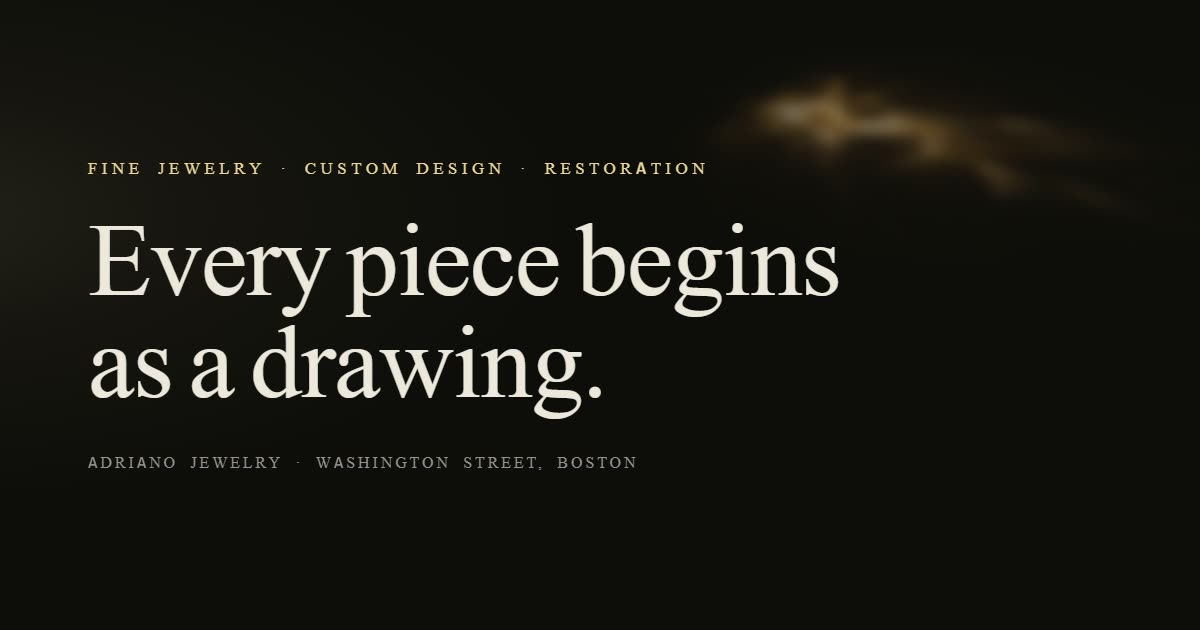
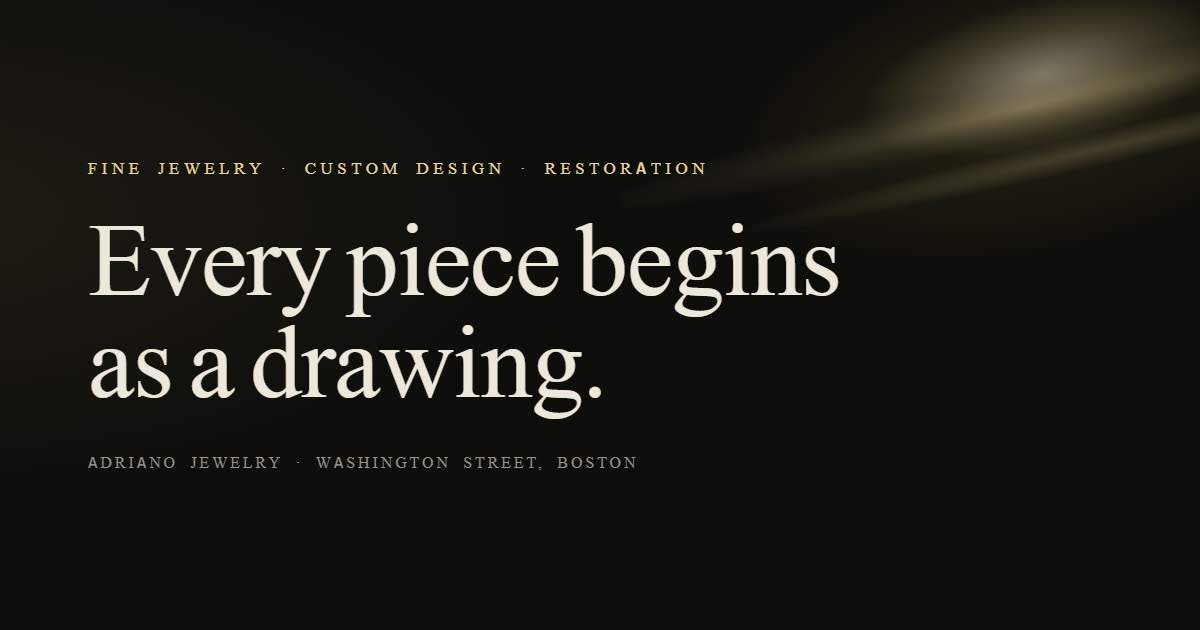
Draw the hero light instead of shipping it, and stop the process skipping stages (v0.1.0)
THE BACKGROUND IS NOW DRAWN, NOT PHOTOGRAPHED. The hero carried a raster of
gold caustics; it is four gradients. Better on every axis that matters here —
no request, no bytes, cannot band on an OLED the way a compressed dark image
does, scales to any viewport without resampling, and it is unambiguously a
lighting effect rather than a photograph of something that was never in the
room. On a page whose whole argument is that nothing is borrowed, the
background should not be the exception. The four layers are one light built
the way light falls: a small hot core, a long shallow rake, a thinner second
streak so the rake has structure, and a broad dim halo for what the room
bounces back. Every layer ends at transparent, so the element has no edge and
needs neither the mask nor the blur the image required.

THE PROCESS SECTION WAS SKIPPING STAGES. Each stage had its own ScrollTrigger
with onToggle, which is wrong in two ways that only show up when measured. The
stages do not touch — six to eleven rem of gap between them — so any scroll
position landing in a gap left NO stage active and the drawing showed whatever
was last lit rather than what was being read. And onToggle only fires if a
sampled frame lands inside a stage's range, so a fast flick or an anchor jump
can cross a 160px stage between two frames and never activate it at all.
Measured on the built page: stepping 400px at a time skipped 03 outright and
[…]

Changed region(s): [[0.6167, 0.0, 1.0, 0.3317]]

diff --git a/assets/css/home.css b/assets/css/home.css
@@ -307,46 +307,62 @@
 /* The lamp again, but local and much stronger — a pool thrown across the top
    right of the hero only. Decorative, so it is aria-hidden in the markup and
    pointer-events:none here. */
+/* DRAWN, NOT PHOTOGRAPHED. This was a raster of gold caustics and it is now
+   four gradients, which is better on every axis that matters here: it costs no
+   request and no bytes, it cannot band on an OLED the way a compressed dark
+   image does, it scales to any viewport without resampling, and — the point —
+   it is unambiguously a lighting effect rather than a photograph of something.
+   On a page whose whole argument is that nothing here is borrowed, the
+   background should not be an image of a thing that was never in the room.
+
+   The four layers are one light, built the way a light actually falls:
+     1. the core, small and hot, where the beam is most concentrated;
+     2. a long shallow streak — 74% wide by 8% tall is what makes it read as
+        raking across a surface rather than glowing in mid-air;
+     3. a second, thinner streak offset below it, so the rake has structure
+        instead of being one smooth blob;
+     4. a broad dim halo in --gold-deep, the light the room bounces back.
+   Rotating the whole element is what sets the rake angle; doing it here rather
+   than baking the angle into each gradient keeps all four consistent.
+
+   Every layer ends at transparent, so the element has no edge to hide and needs
+   neither a mask nor a blur. screen blending keeps it additive, which is what
+   light does. */
 .hero__light {
   position: absolute;
-  top: -18%;
-  right: -22%;
-  width: min(82vw, 60rem);
-  aspect-ratio: 16 / 9;
-  background-size: cover;
-  background-position: center;
-  /* Low enough to read as light in the room rather than as a photograph of
-     light. Blurring kills the last of the image's own structure so nothing in
-     it can be mistaken for an object. */
-  opacity: 0.55;
-  filter: blur(8px);
+  top: -16%;
+  right: -20%;
+  width: min(88vw, 64rem);
+  aspect-ratio: 16 / 10;
+  transform: rotate(-13deg);
+  transform-origin: 60% 50%;
+  opacity: 0.85;
+  mix-blend-mode: screen;
   pointer-events: none;
   z-index: 0;
-
-  /* screen is what makes this a light source instead of a picture of one.
-     The asset is bright streaks on a black field; under normal compositing the
-     black is opaque and the element paints as a visible rectangle sitting on
-     the page — which is exactly how it looked before this line. Under `screen`
-     black is the identity, so the black field disappears entirely and only the
-     streaks survive to lighten what is under them. That is also physically the
-     right model: light adds. */
-  mix-blend-mode: screen;
-
-  /* Even with screen, the blur leaves a faint edge where the element ends.
-     The mask feathers the element's own bounds to nothing so the light has no
-     border at all. */
-  -webkit-mask-image: radial-gradient(
-    closest-side,
-    #000 35%,
-    rgba(0, 0, 0, 0.55) 62%,
-    transparent 100%
-  );
-  mask-image: radial-gradient(
-    closest-side,
-    #000 35%,
-    rgba(0, 0, 0, 0.55) 62%,
-    transparent 100%
-  );
+  background-image:
+    radial-gradient(
+      34% 22% at 58% 44%,
+      rgba(255, 240, 208, 0.5) 0%,
+      rgba(240, 216, 156, 0.2) 40%,
+      rgba(240, 216, 156, 0) 72%
+    ),
+    radial-gradient(
+      74% 8% at 54% 50%,
+      rgba(240, 216, 156, 0.3) 0%,
+      rgba(240, 216, 156, 0.09) 42%,
+      rgba(240, 216, 156, 0) 78%
+    ),
+    radial-gradient(
+      62% 4.5% at 63% 62%,
+      rgba(240, 216, 156, 0.22) 0%,
+      rgba(240, 216, 156, 0) 80%
+    ),
+    radial-gradient(
+      60% 46% at 57% 50%,
+      rgba(184, 148, 63, 0.18) 0%,
+      rgba(184, 148, 63, 0) 70%
+    );
 }
 
 .hero__inner {
@@ -564,6 +580,12 @@
 @media (min-width: 64em) {
   .process__stages {
     gap: clamp(6rem, 14vh, 11rem);
+    /* Extends the grid row past the last stage so the sticky plate keeps its
+       travel all the way through stage 05. A sticky box releases when its
+       bottom meets its container bottom, which is half a plate-height before
+       the column actually ends — without this the final drawing slides away
+       while its own paragraph is still being read. */
+    padding-bottom: clamp(0rem, 16vh, 12rem);
   }
 }
 

diff --git a/assets/js/main.js b/assets/js/main.js
@@ -109,6 +109,20 @@
        all. Driving Lenis from GSAP's ticker rather than its own rAF keeps both
        on one clock, which is what stops the scrub jittering. */
     lenis.on("scroll", window.ScrollTrigger.update);
+
+    /* And again on the native event, which is not redundant. Lenis only emits
+       its own `scroll` for movement it drives; anything that sets the scroll
+       position out from under it — an in-page anchor, the browser restoring a
+       position on reload, find-in-page walking down the document, a keyboard
+       Home/End — moves the page without Lenis noticing. ScrollTrigger then
+       keeps evaluating against a stale position and every trigger below freezes
+       at whatever state it last saw. That is exactly the failure that left the
+       process drawings stuck on stage 02 while the text carried on. Cheap to
+       subscribe, passive, and it makes the two sources of truth agree. */
+    window.addEventListener("scroll", window.ScrollTrigger.update, {
+      passive: true,
+    });
+
     gsap.ticker.add(function (time) {
       lenis.raf(time * 1000);
     });
@@ -273,18 +287,51 @@
           });
         };
 
-        stages.forEach(function (stage, i) {
-          window.ScrollTrigger.create({
-            trigger: stage,
-            /* A band across the middle of the viewport: a stage becomes active
-               when it reaches it and stays active until the next one does, so
-               there is never a gap where nothing is lit. */
-            start: "top 62%",
-            end: "bottom 62%",
-            onToggle: function (self) {
-              if (self.isActive) show(i);
-            },
+        /* ONE trigger for the whole column, not one per stage.
+           Per-stage triggers with onToggle look right and are subtly wrong in
+           two ways. The stages do not touch — there is a gap of six to eleven
+           rem between them — so at any scroll position that lands in a gap NO
+           stage is active and the drawing is whatever was last lit rather than
+           what the reader is looking at. Worse, onToggle only fires if a
+           sampled frame falls inside a stage's range: a fast flick, a trackpad
+           throw, or a jump to an anchor can cross an entire 160px stage between
+           two frames, and that stage is then never activated at all. Measured
+           on the built page, jumping 400px at a time skipped stage 03 outright
+           and the drawing stuck on 02 for the rest of the section.
+
+           Nearest-centre-to-a-reading-line cannot skip and cannot gap: whatever
+           the scroll position, exactly one stage is closest, so there is always
+           an answer and it is always the one level with the reader. */
+        var centres = [];
+        var measure = function () {
+          centres = stages.map(function (s) {
+            var r = s.getBoundingClientRect();
+            return r.top + window.scrollY + r.height / 2;
           });
+        };
+        measure();
+        /* Re-measure on refresh rather than reading layout every frame — this
+           runs on scroll, and five getBoundingClientRect calls per frame would
+           force a synchronous layout on the scroll path for no reason. */
+        window.ScrollTrigger.addEventListener("refresh", measure);
+
+        window.ScrollTrigger.create({
+          trigger: ".process__stages",
+          start: "top bottom",
+          end: "bottom top",
+          onUpdate: function () {
+            var line = window.scrollY + window.innerHeight * 0.62;
+            var best = 0;
+            var bestDist = Infinity;
+            for (var i = 0; i < centres.length; i++) {
+              var d = Math.abs(centres[i] - line);
+              if (d < bestDist) {
+                bestDist = d;
+                best = i;
+              }
+            }
+            show(best);
+          },
         });
 
         show(0);

diff --git a/index.html b/index.html
@@ -270,16 +270,7 @@
            light behind it. That is the stronger version anyway: the page's
            argument is a pair of hands, not a stone. -->
       <section class="hero" aria-labelledby="hero-title">
-        <div
-          class="hero__light"
-          aria-hidden="true"
-          style="
-            background-image: image-set(
-              url('assets/img/light-caustic.avif') type('image/avif'),
-              url('assets/img/light-caustic.webp') type('image/webp')
-            );
-          "
-        ></div>
+        <div class="hero__light" aria-hidden="true"></div>
 
         <div class="hero__inner">
           <p class="eyebrow hero__eyebrow reveal">
@@ -772,7 +763,7 @@
         </nav>
 
         <div class="site-footer__meta">
-          <p class="site-footer__version"><span class="site-footer__v">v</span>0.0.9</p>
+          <p class="site-footer__version"><span class="site-footer__v">v</span>0.1.0</p>
           <!-- The year is authored here as a literal and corrected at runtime by
                assets/js/year.js. Stamping it from Date() at build time instead
                would make `build.js --check` fail every New Year's Day and block the

diff --git a/404.html b/404.html
@@ -595,7 +595,7 @@
         </nav>
 
         <div class="site-footer__meta">
-          <p class="site-footer__version"><span class="site-footer__v">v</span>0.0.9</p>
+          <p class="site-footer__version"><span class="site-footer__v">v</span>0.1.0</p>
           <!-- The year is authored here as a literal and corrected at runtime by
                assets/js/year.js. Stamping it from Date() at build time instead
                would make `build.js --check` fail every New Year's Day and block the

diff --git a/contact-us/index.html b/contact-us/index.html
@@ -174,7 +174,7 @@
         </nav>
 
         <div class="site-footer__meta">
-          <p class="site-footer__version"><span class="site-footer__v">v</span>0.0.9</p>
+          <p class="site-footer__version"><span class="site-footer__v">v</span>0.1.0</p>
           <!-- The year is authored here as a literal and corrected at runtime by
                assets/js/year.js. Stamping it from Date() at build time instead
                would make `build.js --check` fail every New Year's Day and block the

diff --git a/privacy-policy/index.html b/privacy-policy/index.html
@@ -387,7 +387,7 @@
         </nav>
 
         <div class="site-footer__meta">
-          <p class="site-footer__version"><span class="site-footer__v">v</span>0.0.9</p>
+          <p class="site-footer__version"><span class="site-footer__v">v</span>0.1.0</p>
           <!-- The year is authored here as a literal and corrected at runtime by
                assets/js/year.js. Stamping it from Date() at build time instead
                would make `build.js --check` fail every New Year's Day and block the

diff --git a/terms-and-conditions/index.html b/terms-and-conditions/index.html
@@ -529,7 +529,7 @@
         </nav>
 
         <div class="site-footer__meta">
-          <p class="site-footer__version"><span class="site-footer__v">v</span>0.0.9</p>
+          <p class="site-footer__version"><span class="site-footer__v">v</span>0.1.0</p>
           <!-- The year is authored here as a literal and corrected at runtime by
                assets/js/year.js. Stamping it from Date() at build time instead
                would make `build.js --check` fail every New Year's Day and block the
